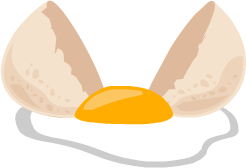
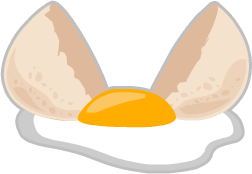
Changed images (they now have outlines), obstacle json files now contain information about image width, height and offset. Added metal_ball.png (for gravity obstacle).

diff --git a/game/js/game.js b/game/js/game.js
@@ -61,30 +61,6 @@ function Game(context, resources, PPM) {
     Observable.apply(this);
         
     var self = this;
-    
-    // Prepare resources (create texture descriptions, parse and scale vertices)
-    // Egg resources
-    var eggVertices = Vec2.parseVectorPrimitiveArray(resources.eggVertices);
-    eggVertices.forEach(function(vertex) {vertex.scale(1 / PPM);});
-    var eggTextureDescription = {
-        image: resources.eggTexture,
-        width: resources.eggTexture.naturalWidth / PPM,
-        height: resources.eggTexture.naturalHeight / PPM
-    };
-    // Solid obstacle resources
-    var obstacleVertices = [],
-        obstacleTextureDescriptions = [];
-    for (var i = 0; i < resources.obstacleVertices.length; i++) {
-        obstacleVertices[i] = Vec2.parseVectorPrimitiveArray(resources.obstacleVertices[i]);
-        obstacleVertices[i].forEach(function(vertex) {vertex.scale(1 / PPM);});
-    }
-    for (var i = 0; i < resources.obstacleTextures.length; i++) {
-        obstacleTextureDescriptions[i] = {
-            image: resources.obstacleTextures[i],
-            width: resources.obstacleTextures[i].naturalWidth / PPM,
-            height: resources.obstacleTextures[i].naturalHeight / PPM
-        };
-    }
         
     // Physics stuff
     var timeScale = 1,      // 0 <= timeScale < infinity
@@ -112,7 +88,14 @@ function Game(context, resources, PPM) {
         effectBodies = new SpatialMap("geometry.effect.aabb", 2);    // Effect areas
     
     // Create player
-    var player = new Player({solid: new Poly(eggVertices, eggTextureDescription)}, cameraWidth / 2, 1, 0, Physics.densityEgg);
+    var eggPoly = new Poly(resources.eggDescription.vertices, {
+        image: resources.eggImage,
+        width: resources.eggDescription.imageWidth,
+        height: resources.eggDescription.imageHeight,
+        offsetX: resources.eggDescription.imageOffsetX,
+        offsetY: resources.eggDescription.imageOffsetY
+    });
+    var player = new Player({solid: eggPoly}, cameraWidth / 2, 1, 0, Physics.densityEgg);
     player.addEventListener(Player.EVENT_HEALTH_CHANGED, function(eventName, health) {
         self.dispatchEvent(Game.EVENT_PLAYER_HEALTH_CHANGED, health);
         if (health === 0) {
@@ -124,7 +107,21 @@ function Game(context, resources, PPM) {
     player.addEventListener(Player.EVENT_SCORE_CHANGED, function(eventName, score) {
         self.dispatchEvent(Game.EVENT_PLAYER_SCORE_CHANGED, score);
     });    
-        
+    
+    // Obstacle polygons
+    var meteorPolygons = [];
+    for (var i = 0; i < resources.meteorDescriptions.length; i++) {
+        meteorPolygons[i] = new Poly(resources.meteorDescriptions[i].vertices, {
+            image: resources.meteorImages[i],
+            width: resources.meteorDescriptions[i].imageWidth,
+            height: resources.meteorDescriptions[i].imageHeight,
+            offsetX: resources.meteorDescriptions[i].imageOffsetX,
+            offsetY: resources.meteorDescriptions[i].imageOffsetY
+        });
+        console.log(meteorPolygons[i]);
+    }
+    
+    
     /**
      * @param {number} dt Simulation length (delta time) in milliseconds.
      */
@@ -188,7 +185,7 @@ function Game(context, resources, PPM) {
             bodies = solidBodies.queryRect(player.geometry.solid.aabb);
             for (i = 0; i < bodies.length; i++) {
                 body = bodies[i];
-                if (Physics.intersectPolyPoly(player.geometry.solid, body.geometry.solid, intersectionData)) {
+                if (Physics.intersectPolyPoly(player.geometry.solid, body.geometry.solid, intersectionData, true)) {
                     Physics.resolveCollision(player, body, intersectionData);
                 }
             }
@@ -353,17 +350,21 @@ function Game(context, resources, PPM) {
             random,
             body;
 
-        var leftWall = new Body({solid: new Poly([0, 0, 1, 0, 1, height, 0, height])}, 0, offsetY + height / 2, 0, Number.POSITIVE_INFINITY),
-            rightWall = new Body({solid: new Poly([0, 0, 1, 0, 1, height, 0, height])}, cameraWidth, offsetY + height / 2, 0, Number.POSITIVE_INFINITY);
+        var leftWall = new Body({solid: new Poly([0, 0, 1, 0, 1, height, 0, height])}, -0.5, offsetY + height / 2, 0, Number.POSITIVE_INFINITY),
+            rightWall = new Body({solid: new Poly([0, 0, 1, 0, 1, height, 0, height])}, cameraWidth + 0.5, offsetY + height / 2, 0, Number.POSITIVE_INFINITY);
 
+        leftWall.restitution = 0;
+        leftWall.friction = 0.1;
+        rightWall.restitution = 0;
+        rightWall.friction = 0.1;
         obstacleArray.push(leftWall);
         obstacleArray.push(rightWall);
 
         for (var i = 0; i < numberOfObstacles; i++){
             offsetY += obstacleVerticleSpacing;
-            random = Math.floor(Math.random() * obstacleVertices.length);
+            random = Math.floor(Math.random() * meteorPolygons.length);
 
-            body = new Body({solid: new Poly(obstacleVertices[random], obstacleTextureDescriptions[random])}, Math.random() * width, offsetY, 0, Number.POSITIVE_INFINITY);
+            body = new Body({solid: meteorPolygons[random].shallowClone()}, Math.random() * width, offsetY, 0, Number.POSITIVE_INFINITY);
             obstacleArray.push(body);
         }
 

diff --git a/game/index.js b/game/index.js
@@ -32,17 +32,17 @@ function resizeCanvas() {
 // Load resources
 var resourceDescription = {
     // Egg
-    eggTexture: "assets/images/egg.png",
-    eggVertices: "assets/images/egg.json",
+    eggImage: "assets/images/egg.png",
+    eggDescription: "assets/images/egg.json",
 
     // Obstacles
-    obstacleTextures: [
+    meteorImages: [
         "assets/images/obstacle_1.png",
         "assets/images/obstacle_2.png",
         "assets/images/obstacle_3.png",
         "assets/images/obstacle_4.png"
     ],
-    obstacleVertices: [
+    meteorDescriptions: [
         "assets/images/obstacle_1.json",
         "assets/images/obstacle_2.json",
         "assets/images/obstacle_3.json",

diff --git a/game/js/geometry.js b/game/js/geometry.js
@@ -151,13 +151,10 @@ Poly.prototype.constructor = Poly;
 
 /**
  * Creates a shallow clone of this polygon with the specified transformation.
- * @param {number} x
- * @param {number} y
- * @param {number} orientation
  * @returns {Poly}
  */
-Poly.prototype.shallowClone = function(x, y, orientation) {
-    return new Poly(this._template, x, y, orientation, this.textureDescription);
+Poly.prototype.shallowClone = function() {
+    return new Poly(this._template, this.textureDescription);
 };
 
 Poly.prototype.getArea = function() {
